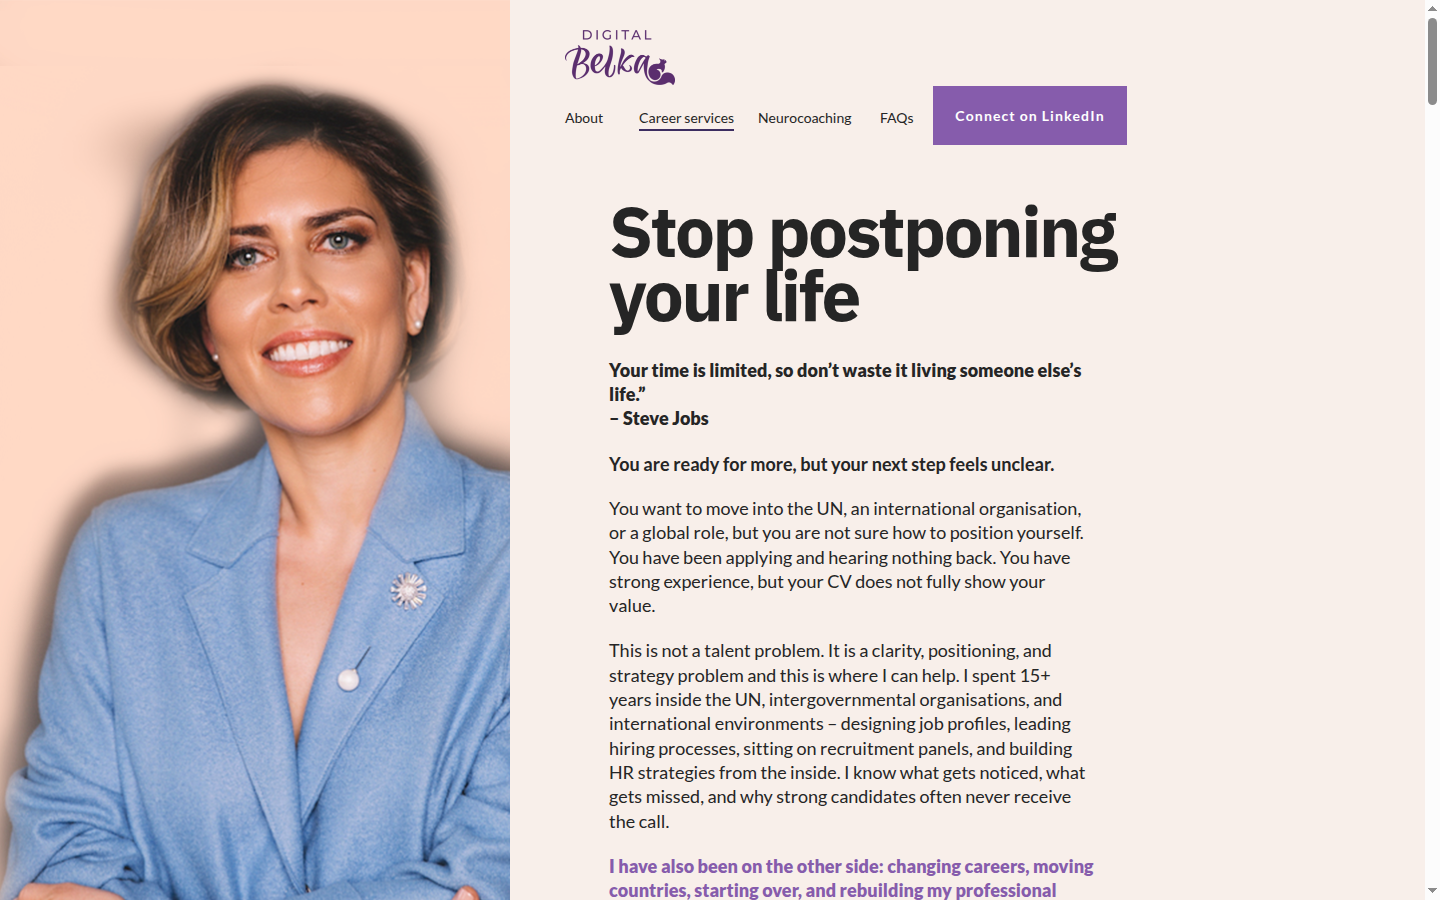
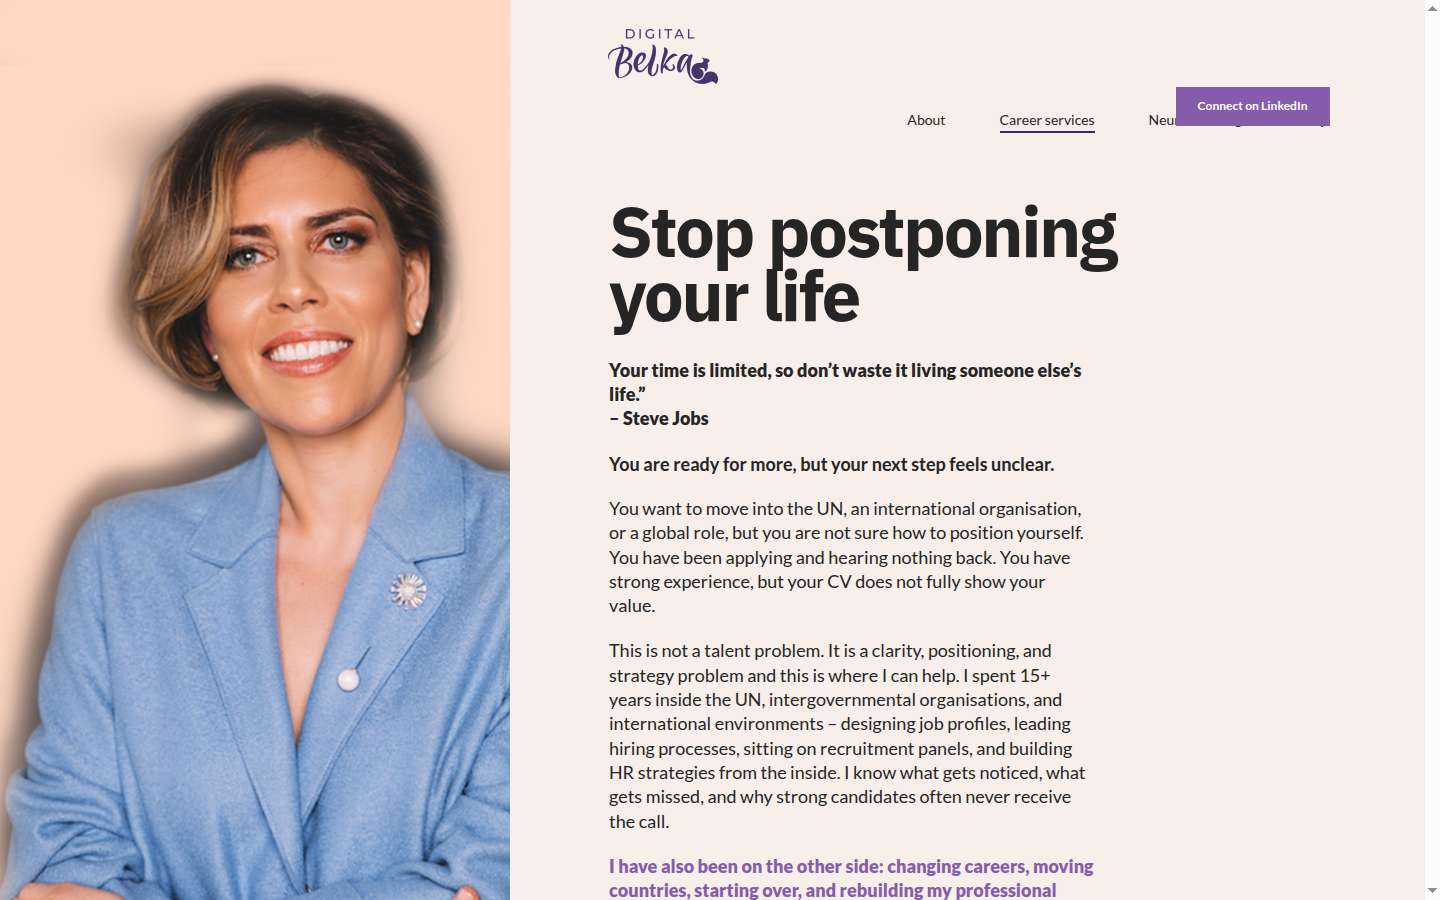
fix(visual): align staging layouts with PSD baselines

diff --git a/wordpress/wp-content/themes/neurocoaching/style.css b/wordpress/wp-content/themes/neurocoaching/style.css
@@ -267,7 +267,7 @@ details p { padding:0 45px 18px 0; }
 
 @media (max-width:850px) {
 	.neuro-wrap { width:auto; max-width:none; margin-inline:16px; }
-	.neurocoaching-route .site-header { position:absolute; top:0; right:0; width:100%; min-height:53px; padding:4px 16px; align-items:center; background:var(--neuro-purple); }
+	.neurocoaching-route .site-header { position:absolute; top:0; right:0; width:100%; min-height:53px; padding:4px 16px; align-items:center; background:var(--purple); }
 	.neurocoaching-route .brand { width:90px; height:45px; }
 	.neurocoaching-route .brand img { width:90px; height:45px; filter:none; }
 	.neurocoaching-route .site-header>.button { display:none; }
@@ -278,8 +278,8 @@ details p { padding:0 45px 18px 0; }
 	.neurocoaching-route .primary-nav a { width:auto; height:auto; padding:3px 0; border:0; border-radius:0; color:#fff; }
 	.neuro-button { min-height:53px; padding:11px 29px; font-size:14px; }
 	.neuro-hero { height:1045px; display:block; padding-top:53px; }
-	.neuro-hero__photo { width:320px; height:488px; }
-	.neuro-hero__photo img { width:325px; max-width:none; height:488px; object-fit:cover; object-position:center top; }
+	.neuro-hero__photo { width:100%; height:456px; }
+	.neuro-hero__photo img { width:100%; max-width:none; height:456px; object-fit:fill; object-position:center top; }
 	.neuro-hero__copy { width:auto; padding:37px 16px 20px; font-size:14px; line-height:1.38; }
 	.neuro-kicker { margin-bottom:21px; font-size:11px; }
 	.neuro-hero h1 { width:275px; margin-bottom:24px; font-size:40px; line-height:1.02; }
@@ -474,7 +474,7 @@ details p { padding:0 45px 18px 0; }
 
 @media (max-width:850px) {
 	.career-wrap { width:auto; max-width:none; margin-inline:18px; }
-	.career-services-route .site-header { position:absolute; top:0; right:0; width:100%; min-height:53px; padding:4px 16px; align-items:center; background:var(--career-purple); }
+	.career-services-route .site-header { position:absolute; top:0; right:0; width:100%; min-height:53px; padding:4px 16px; align-items:center; background:var(--purple); }
 	.career-services-route .brand { width:90px; height:45px; }
 	.career-services-route .brand img { width:90px; height:45px; filter:none; }
 	.career-services-route .site-header>.button { display:none; }
@@ -486,7 +486,7 @@ details p { padding:0 45px 18px 0; }
 	.career-hero { height:1525px; display:block; padding-top:53px; }
 	.career-hero__photo { height:438px; background:#f7d7c6; }
 	.career-hero__photo picture { display:block; width:100%; height:100%; }
-	.career-hero__photo img { width:79.375%; max-width:none; height:auto; margin-left:11.5625%; object-fit:initial; object-position:initial; }
+	.career-hero__photo img { width:254px; max-width:none; height:433px; margin:5px 0 0 37px; object-fit:fill; object-position:initial; }
 	.career-hero__copy { width:auto; padding:44px 18px 30px; font-size:14px; line-height:1.42; }
 	.career-hero h1 { margin-bottom:22px; font-size:40px; line-height:1; }
 	.career-quote { width:260px; margin-bottom:29px; }
@@ -663,7 +663,7 @@ body.home:not(.career-services-route):not(.neurocoaching-route) .menu-toggle { d
 
 @media (max-width:850px) {
 	.nc-about__frame { width:auto; max-width:none; margin-inline:15px; }
-	body.home:not(.career-services-route):not(.neurocoaching-route) .site-header { position:absolute; top:0; right:0; left:0; width:100%; height:53px; min-height:53px; padding:0; background:var(--nc-about-purple); }
+	body.home:not(.career-services-route):not(.neurocoaching-route) .site-header { position:absolute; top:0; right:0; left:0; width:100%; height:53px; min-height:53px; padding:0; background:var(--purple); }
 	body.home:not(.career-services-route):not(.neurocoaching-route) .brand { top:4px; left:16px; width:89px; height:45px; }
 	body.home:not(.career-services-route):not(.neurocoaching-route) .brand img { width:90px; height:45px; filter:none; }
 	body.home:not(.career-services-route):not(.neurocoaching-route) .about-socials { top:15px; left:145px; width:90px; height:22px; }
@@ -745,6 +745,19 @@ body.home:not(.career-services-route):not(.neurocoaching-route) .menu-toggle { d
 .nc-gallery__slide[hidden] { display:none; }
 .nc-gallery__slide img { display:block; width:100%; height:100%; object-fit:cover; }
 .nc-gallery>button { display:grid; place-items:center; cursor:pointer; }
+
+/* The supplied About desktop artboard is 1320px, while acceptance is captured
+   at 1440px. Scale the semantic layout as one artboard so every measured PSD
+   coordinate (including header and type) lands on the 1440px baseline. */
+@media (min-width:851px) and (max-width:1440px) {
+	.home { overflow-x:hidden; }
+	.home .site-header,.home .nc-about { zoom:calc(100vw / 1320px); }
+}
+
+/* Bound source-sized mobile galleries and decoration to the device viewport. */
+@media (max-width:850px) {
+	.home,.career-services-route,.neurocoaching-route { overflow-x:hidden; }
+}
 .nc-gallery>button:disabled { cursor:default; opacity:.42; }
 .nc-gallery__pagination { position:absolute; top:calc(100% + 54px); left:50%; display:flex; width:max-content; max-width:100%; gap:22px; transform:translateX(-50%); }
 .nc-gallery__pagination button { width:12px; height:12px; padding:0; border:2px solid currentColor; border-radius:50%; color:inherit; background:transparent; cursor:pointer; }

diff --git a/docs/visual-task-844/verify-regression.php b/docs/visual-task-844/verify-regression.php
@@ -38,16 +38,19 @@ foreach ( $templates as $file => $required ) {
 
 $css = file_get_contents( $root . '/wordpress/wp-content/themes/neurocoaching/style.css' );
 $required_css = array(
-	'.home .site-header { z-index:10;', 'left:563px;',
+	'body.home:not(.career-services-route):not(.neurocoaching-route) .site-header { z-index:10;', 'left:563px;',
 	'.nc-about__hero { width:1320px;', 'margin-left:0;',
-	'.career-hero__photo { height:438px; background:#f7d7c6;', 'width:79.375%; max-width:none;',
-	'.neuro-hero { height:1045px;', '.neuro-hero__photo { width:320px; height:488px;',
+	'.career-hero__photo { height:438px; background:#f7d7c6;', 'width:254px; max-width:none; height:433px; margin:5px 0 0 37px;',
+	'.neuro-hero { height:1045px;', '.neuro-hero__photo { width:100%; height:456px;',
 	'.neurocoaching-route .site-header { z-index:10;', '.career-services-route .site-header { z-index:10;',
 	'.nc-about__life { position:relative; height:944px; padding-top:143px; overflow:hidden; isolation:isolate;',
 	'.nc-about__life-photo { position:relative; z-index:1; height:479px;',
 	'.nc-about__cta { position:relative; z-index:2; height:401px;',
 	'.nc-gallery__viewport { min-width:0; overflow:hidden;',
 	'.nc-gallery__slide { height:100%; margin:0; overflow:hidden;',
+	'.home .site-header,.home .nc-about { zoom:calc(100vw / 1320px);',
+	'.home,.career-services-route,.neurocoaching-route { overflow-x:hidden;',
+	'background:var(--purple);',
 );
 foreach ( $required_css as $rule ) {
 	if ( false === strpos( $css, $rule ) ) {
